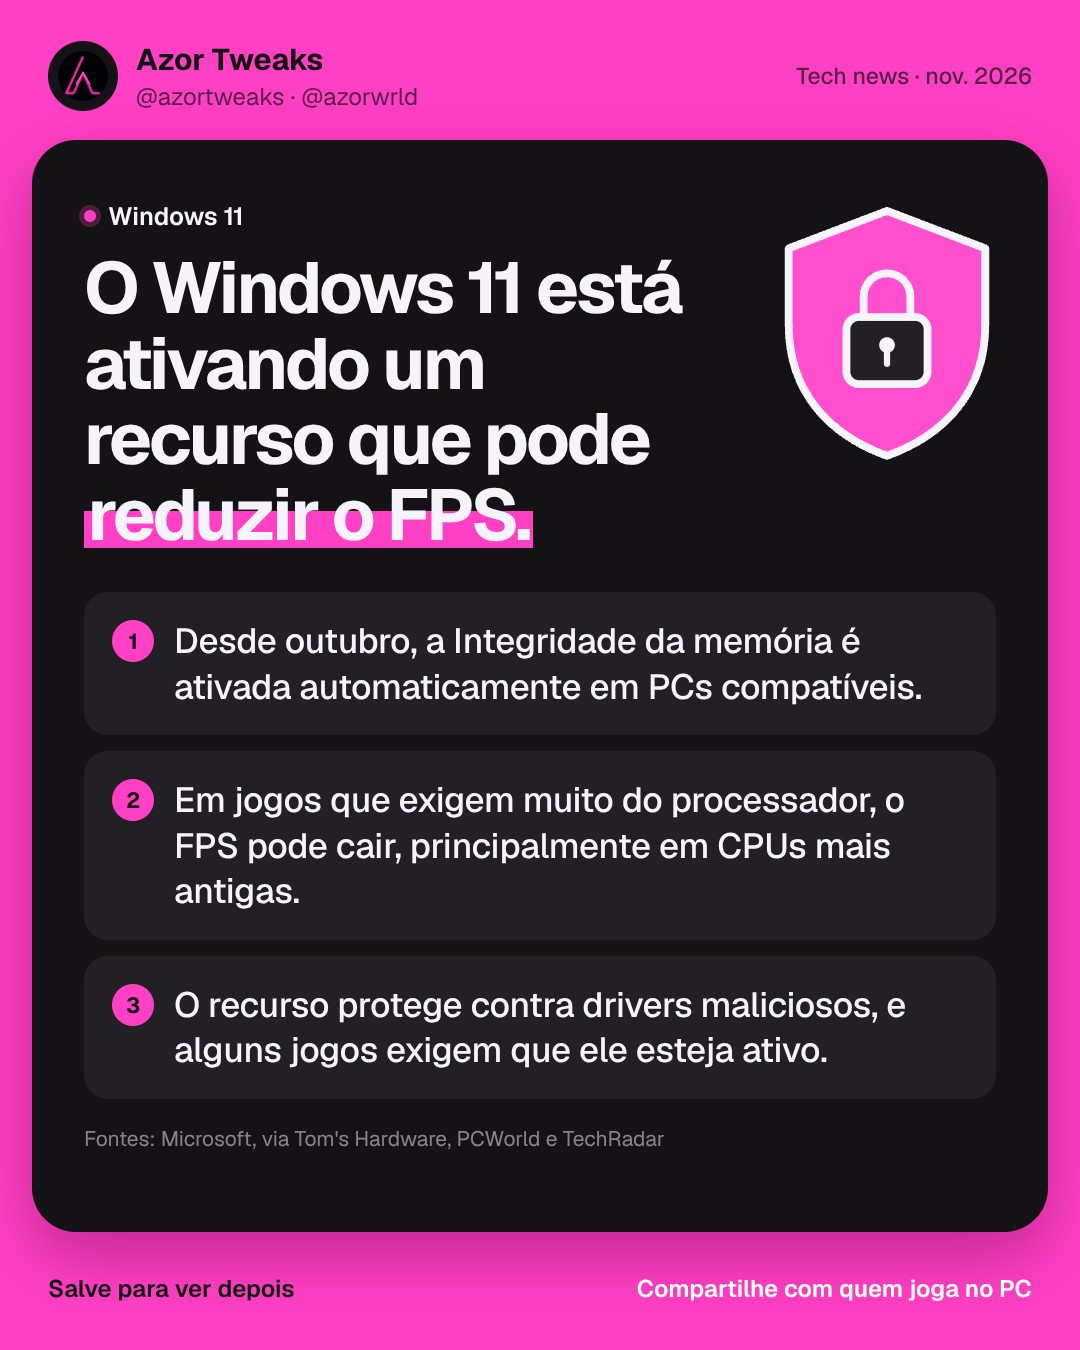
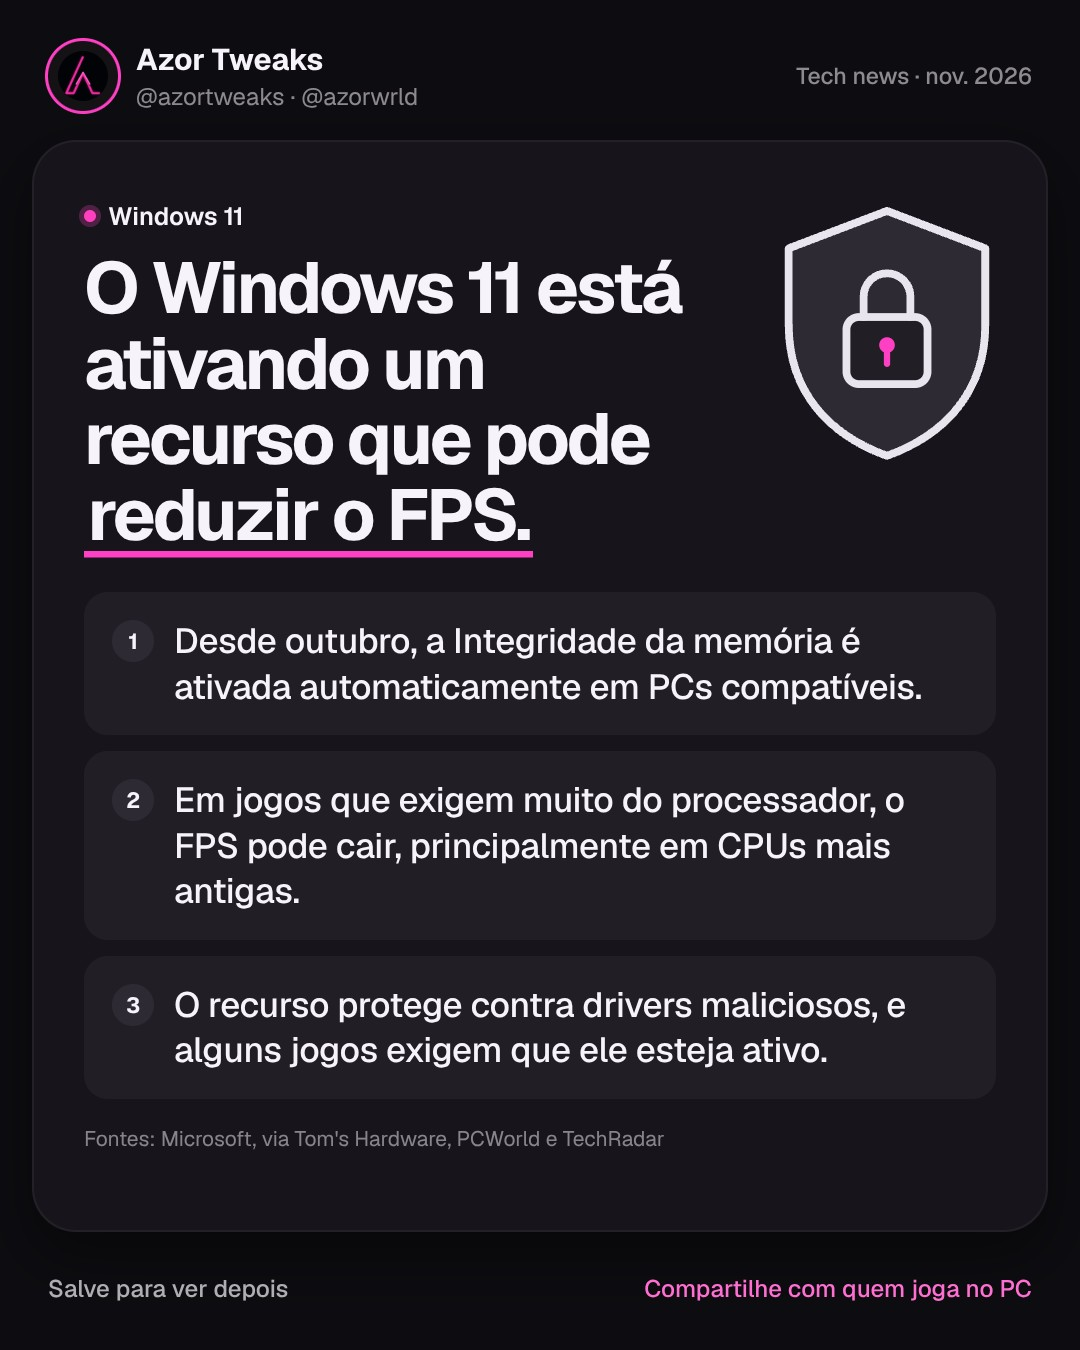
Tech news: paleta escura com detalhes rosa
Claude-Session: https://claude.ai/code/session_011VtFjTyii9rhYQFvrQ9bYg

diff --git a/propaganda/tech_news_2026-11/fonte/news_vid3.html b/propaganda/tech_news_2026-11/fonte/news_vid3.html
@@ -1,48 +1,55 @@
 <!doctype html><html lang="pt-BR"><head><meta charset="utf-8"><title>AZOR — Tech news (narrado)</title>
 <style>
-html,body{width:1080px;height:1920px;overflow:hidden;background:#ff3fc4}
-#p{position:relative;width:1080px;height:1920px;overflow:hidden;background:#ff3fc4;color:#f7f3fa;font-family:Geist,sans-serif;-webkit-font-smoothing:antialiased}
+html,body{width:1080px;height:1920px;overflow:hidden;background:#0d0c10}
+#p{position:relative;width:1080px;height:1920px;overflow:hidden;background:#0d0c10;color:#f7f3fa;font-family:Geist,sans-serif;-webkit-font-smoothing:antialiased}
 .x{position:absolute}
 #bars{left:56px;right:56px;top:56px;display:flex;gap:10px}
-#bars i{flex:1;height:7px;border-radius:4px;background:rgba(20,18,21,.2);overflow:hidden;position:relative}
-#bars i b{position:absolute;left:0;top:0;bottom:0;width:0;background:#141215;border-radius:4px}
+#bars i{flex:1;height:7px;border-radius:4px;background:rgba(255,255,255,.14);overflow:hidden;position:relative}
+#bars i b{position:absolute;left:0;top:0;bottom:0;width:0;background:#f7f3fa;border-radius:4px}
 #hd{left:56px;right:56px;top:96px;display:flex;align-items:center;gap:20px}
-#hd img{width:84px;height:84px;border-radius:50%;background:#141215;padding:12px}#hd b{color:#141215}
+#hd img{width:84px;height:84px;border-radius:50%;background:#141215;padding:12px}#hd b{color:#f7f3fa}#hd img{box-shadow:0 0 0 3px #ff3fc4}
 #hd b{display:block;font:700 34px Geist;letter-spacing:-.01em}
-#hd span{display:block;font:400 27px Geist;color:rgba(20,18,21,.7);margin-top:2px}
-#hd .dt{margin-left:auto;font:500 26px Geist;color:rgba(20,18,21,.7)}
-#card{left:40px;right:40px;top:224px;height:1500px;border-radius:52px;background:#141215;box-shadow:0 30px 80px rgba(80,0,50,.35)}
+#hd span{display:block;font:400 27px Geist;color:rgba(247,243,250,.55);margin-top:2px}
+#hd .dt{margin-left:auto;font:500 26px Geist;color:rgba(247,243,250,.55)}
+#card{left:40px;right:40px;top:224px;height:1500px;border-radius:52px;background:#17151b;box-shadow:inset 0 0 0 2px rgba(255,255,255,.05),0 30px 80px rgba(0,0,0,.45)}
 #tg{left:96px;top:290px;display:flex;align-items:center;gap:14px;font:600 28px Geist;color:#f7f3fa}
 #tg i{width:14px;height:14px;border-radius:50%;background:#ff3fbf;box-shadow:0 0 0 6px rgba(255,63,196,.25)}
 .hl{left:96px;right:96px;top:360px;font:700 88px/1.05 Geist;letter-spacing:-.04em}
-mark{background:linear-gradient(#ff3fc4,#ff3fc4) no-repeat 0 78%;background-size:0% 40%;color:inherit;padding:0 .05em}
+mark{background:linear-gradient(#ff3fc4,#ff3fc4) no-repeat 0 96%;background-size:0% 7%;color:inherit;padding:0 .05em}
 #ic{left:540px;top:1180px}
 #ic>svg{position:absolute;transform:translate(-50%,-50%)}
 #ol{left:96px;right:96px;display:flex;flex-direction:column;gap:22px}
-#ol div,#st div{position:relative;display:flex;gap:26px;align-items:flex-start;padding:30px 32px 32px;border-radius:30px;background:#221f25;font:500 44px/1.28 Geist;letter-spacing:-.015em}
+#ol div,#st div{position:relative;display:flex;gap:26px;align-items:flex-start;padding:30px 32px 32px;border-radius:30px;background:#211e25;font:500 44px/1.28 Geist;letter-spacing:-.015em}
 #ol div:before,#st div:before{content:'';position:absolute;left:0;top:26px;bottom:26px;width:6px;border-radius:3px;background:#ff3fc4;opacity:var(--on,0)}
-#ol i,#st i{flex:none;font:700 28px Geist;font-style:normal;width:56px;height:56px;border-radius:50%;background:#ff3fc4;color:#141215;display:flex;align-items:center;justify-content:center;margin-top:3px}
+#ol i,#st i{flex:none;font:700 28px Geist;font-style:normal;width:56px;height:56px;border-radius:50%;background:#2e2a33;color:#f7f3fa;display:flex;align-items:center;justify-content:center;margin-top:3px}
 #st{left:96px;right:96px;top:560px;display:flex;flex-direction:column;gap:22px}
 #st div{align-items:center;font-weight:600}
 #st .sw{margin-left:auto;width:120px;height:66px;border-radius:36px;position:relative;flex:none;background:#ff3fbf}
 #st .sw b{position:absolute;left:6px;top:6px;width:54px;height:54px;border-radius:50%;background:#fff;box-shadow:0 2px 6px rgba(0,0,0,.25)}
-#wn{left:96px;right:96px;top:1260px;font:500 34px/1.38 Geist;padding:28px 32px;border-radius:26px;background:#2c1a27;color:#ffc6ee}
-#src{left:56px;right:56px;top:1752px;font:500 26px/1.35 Geist;color:rgba(20,18,21,.72)}
-#cta{left:56px;right:56px;top:1830px;display:flex;justify-content:space-between;font:600 26px Geist;color:#141215}
-#cta span:last-child{color:#fff}
-#end{left:40px;right:40px;top:224px;height:1500px;border-radius:52px;background:#141215;display:flex;flex-direction:column;align-items:center;justify-content:center;text-align:center}
+#wn{left:96px;right:96px;top:1260px;font:500 34px/1.38 Geist;padding:28px 32px;border-radius:26px;background:#211e25;color:rgba(247,243,250,.75);box-shadow:inset 3px 0 0 #ff3fc4}
+#src{left:56px;right:56px;top:1752px;font:400 26px/1.35 Geist;color:rgba(247,243,250,.42)}
+#cta{left:56px;right:56px;top:1830px;display:flex;justify-content:space-between;font:500 26px Geist;color:rgba(247,243,250,.7)}
+#cta span:last-child{color:#ff6fd2}
+#end{left:40px;right:40px;top:224px;height:1500px;border-radius:52px;background:#17151b;display:flex;flex-direction:column;align-items:center;justify-content:center;text-align:center}
 #end img{width:210px;height:210px;border-radius:50%;background:#141215;padding:28px;box-shadow:0 0 0 8px #ff3fc4}
 #end h3{font:700 86px/1.05 Geist;letter-spacing:-.04em;margin-top:60px}
 #end p{font:500 38px/1.35 Geist;color:rgba(247,243,250,.65);margin-top:26px}
 #end .bt{margin-top:60px;display:flex;gap:18px}
-#end .bt span{font:700 38px Geist;padding:24px 44px;border-radius:999px;background:#ff3fc4;color:#141215}
-#end .bt span+span{background:transparent;color:#fff;box-shadow:inset 0 0 0 3px #ff3fc4}
+#end .bt span{font:700 38px Geist;padding:24px 44px;border-radius:999px;background:#f7f3fa;color:#141215}
+#end .bt span+span{background:transparent;color:#fff;box-shadow:inset 0 0 0 3px rgba(247,243,250,.3)}
 </style></head><body><div id="p"></div>
 <script type="module">
 import {sfx, ease, prog, lerp, clamp} from '/kit.js';
 import {STORIES} from '/news_data.js';
 import {ICON as ICON0, AVATAR} from '/nat.js';
-const ICON = Object.fromEntries(Object.entries(ICON0).map(([k, f]) => [k, () => f().replaceAll('#151316', '#f7f3fa').replaceAll('fill="#fff"', 'fill="#221f25"').replaceAll('#d9d4cd', '#4a464f')]));
+const DARK = svg => svg.replaceAll('#151316', '#e9e5ee').replaceAll('fill="#fff"', 'fill="#211e25"').replaceAll('#d9d4cd', '#3a3640').replaceAll('fill="#ff4fcf"', 'fill="#2e2a33"');
+const ACCENT = {  // um único detalhe rosa por ícone
+  shield: v => v.replace('<circle cx="150" cy="186" r="10" fill="#e9e5ee"/><rect x="146" y="190" width="8" height="24" rx="4" fill="#e9e5ee"/>', '<circle cx="150" cy="186" r="10" fill="#ff3fc4"/><rect x="146" y="190" width="8" height="24" rx="4" fill="#ff3fc4"/>'),
+  gpu: v => v.replaceAll('r="12" fill="#e9e5ee"', 'r="12" fill="#ff3fc4"'),
+  cal: v => v.replace('font-size="30" fill="#e9e5ee">NOV', 'font-size="30" fill="#ff3fc4">NOV'),
+  cpu: v => v.replace('font-size="30" fill="#e9e5ee">18A-P', 'font-size="30" fill="#ff3fc4">18A-P'),
+};
+const ICON = Object.fromEntries(Object.entries(ICON0).map(([k, f]) => [k, () => ACCENT[k](DARK(f()))]));
 const FONT = `@font-face{font-family:Geist;font-weight:400;src:url(/node_modules/@fontsource/geist/files/geist-latin-400-normal.woff2)}
 @font-face{font-family:Geist;font-weight:500;src:url(/node_modules/@fontsource/geist/files/geist-latin-500-normal.woff2)}
 @font-face{font-family:Geist;font-weight:600;src:url(/node_modules/@fontsource/geist/files/geist-latin-600-normal.woff2)}
@@ -71,7 +78,7 @@ function build() {
 }
 const show = (e, k, dy = 30) => { e.style.opacity = k; e.style.transform = `translateY(${(1 - k) * dy}px)`; e.style.visibility = k > .001 ? 'visible' : 'hidden'; };
 const inout = (t, a, b, d = .45) => ease.out(prog(t, a - .15, a - .15 + d)) * (1 - ease.in(prog(t, b - .35, b)));
-const marks = (root, t, t0) => root.querySelectorAll('mark').forEach(m => m.style.backgroundSize = `${ease.io(prog(t, t0, t0 + .7)) * 100}% 40%`);
+const marks = (root, t, t0) => root.querySelectorAll('mark').forEach(m => m.style.backgroundSize = `${ease.io(prog(t, t0, t0 + .7)) * 100}% 7%`);
 let olTop = 0;
 
 window.renderFrame = t => {
@@ -97,7 +104,7 @@ window.renderFrame = t => {
   ic.firstElementChild.style.transform = `translate(-50%,-50%) scale(${sc}) translateY(${Math.sin(t * 1.6) * 7}px)`;
   if (s.art === 'gpu') ic.querySelectorAll('.fan').forEach(f => f.querySelector('.bl').setAttribute('transform', `rotate(${t * 240} ${f.dataset.x} 110)`));
   if (s.art === 'cal') ic.querySelector('.day').textContent = Math.max(1, Math.round(lerp(1, 19, ease.out(prog(t, S.head.start + .6, S.head.start + 2)))));
-  if (s.art === 'cpu') ic.querySelector('.die').setAttribute('fill', `hsl(318,100%,${lerp(66, 80, (Math.sin(t * 2.6) + 1) / 2)}%)`);
+  if (s.art === 'cpu') ic.querySelector('.die').setAttribute('fill', `hsl(270,8%,${lerp(17, 24, (Math.sin(t * 2.6) + 1) / 2)}%)`);
   // fatos: aparecem quando a voz começa cada um; o que está sendo lido fica em destaque
   const lv = t > S.f0.start - .3 && t < fEnd; ol.style.visibility = lv ? 'visible' : 'hidden';
   [...ol.children].forEach((d, i) => { const g = S['f' + i]; show(d, inout(t, g.start, fEnd), 40);

diff --git a/propaganda/tech_news_2026-11/fonte/news_post3.html b/propaganda/tech_news_2026-11/fonte/news_post3.html
@@ -5,38 +5,45 @@
 @font-face{font-family:Geist;font-weight:600;src:url(/node_modules/@fontsource/geist/files/geist-latin-600-normal.woff2)}
 @font-face{font-family:Geist;font-weight:700;src:url(/node_modules/@fontsource/geist/files/geist-latin-700-normal.woff2)}
 *{box-sizing:border-box;margin:0;padding:0}
-html,body{width:1080px;height:1350px;overflow:hidden;background:#ff3fc4}
-#p{position:relative;width:1080px;height:1350px;overflow:hidden;background:#ff3fc4;color:#f7f3fa;font-family:Geist,sans-serif;-webkit-font-smoothing:antialiased}
+html,body{width:1080px;height:1350px;overflow:hidden;background:#0d0c10}
+#p{position:relative;width:1080px;height:1350px;overflow:hidden;background:#0d0c10;color:#f7f3fa;font-family:Geist,sans-serif;-webkit-font-smoothing:antialiased}
 .x{position:absolute}
 #hd{left:48px;right:48px;top:40px;display:flex;align-items:center;gap:18px}
-#hd img{width:70px;height:70px;border-radius:50%;background:#141215;padding:10px}#hd b{color:#141215}
-#hd b{display:block;font:700 30px Geist}#hd span{display:block;font:400 24px Geist;color:rgba(20,18,21,.7);margin-top:2px}
-#hd .dt{margin-left:auto;font:500 23px Geist;color:rgba(20,18,21,.7)}
-#card{left:32px;right:32px;top:140px;bottom:118px;border-radius:44px;background:#141215;box-shadow:0 24px 60px rgba(80,0,50,.35)}
+#hd img{width:70px;height:70px;border-radius:50%;background:#141215;padding:10px}#hd b{color:#f7f3fa}#hd img{box-shadow:0 0 0 3px #ff3fc4}
+#hd b{display:block;font:700 30px Geist}#hd span{display:block;font:400 24px Geist;color:rgba(247,243,250,.55);margin-top:2px}
+#hd .dt{margin-left:auto;font:500 23px Geist;color:rgba(247,243,250,.55)}
+#card{left:32px;right:32px;top:140px;bottom:118px;border-radius:44px;background:#17151b;box-shadow:inset 0 0 0 2px rgba(255,255,255,.05),0 24px 60px rgba(0,0,0,.45)}
 #tg{left:84px;top:200px;display:flex;align-items:center;gap:12px;font:600 25px Geist}
 #tg i{width:12px;height:12px;border-radius:50%;background:#ff3fbf;box-shadow:0 0 0 5px rgba(255,63,196,.25)}
 h1{position:absolute;left:84px;font-weight:700;letter-spacing:-.04em;line-height:1.05}
-mark{background:linear-gradient(#ff3fc4,#ff3fc4) no-repeat 0 78%;background-size:100% 40%;color:inherit;padding:0 .05em}
+mark{background:linear-gradient(#ff3fc4,#ff3fc4) no-repeat 0 96%;background-size:100% 7%;color:inherit;padding:0 .05em}
 .ic{position:absolute}
 .ol{position:absolute;left:84px;right:84px;display:flex;flex-direction:column;gap:16px}
-.ol div{display:flex;gap:20px;align-items:flex-start;padding:26px 28px;border-radius:24px;background:#221f25;font:500 35px/1.3 Geist;letter-spacing:-.01em}
-.ol i{flex:none;font:700 22px Geist;font-style:normal;width:42px;height:42px;border-radius:50%;background:#ff3fc4;color:#141215;display:flex;align-items:center;justify-content:center;margin-top:2px}
+.ol div{display:flex;gap:20px;align-items:flex-start;padding:26px 28px;border-radius:24px;background:#211e25;font:500 35px/1.3 Geist;letter-spacing:-.01em}
+.ol i{flex:none;font:700 22px Geist;font-style:normal;width:42px;height:42px;border-radius:50%;background:#2e2a33;color:#f7f3fa;display:flex;align-items:center;justify-content:center;margin-top:2px}
 .ol.big div{font-size:38px;padding:26px 28px;align-items:center}
 .ol.big i{width:50px;height:50px;font-size:24px}
 .sw{margin-left:auto;width:96px;height:54px;border-radius:30px;background:#4a464f;position:relative;flex:none}.sw:after{content:'';position:absolute;left:5px;top:5px;width:44px;height:44px;border-radius:50%;background:#fff;box-shadow:0 2px 5px rgba(0,0,0,.25)}
-.wn{position:absolute;left:84px;right:84px;font:500 27px/1.38 Geist;padding:22px 26px;border-radius:22px;background:#2c1a27;color:#ffc6ee}
+.wn{position:absolute;left:84px;right:84px;font:500 27px/1.38 Geist;padding:22px 26px;border-radius:22px;background:#211e25;color:rgba(247,243,250,.75);box-shadow:inset 3px 0 0 #ff3fc4}
 .cv{position:absolute;left:84px;right:84px;top:480px;display:flex;flex-direction:column;gap:18px}
-.cv div{display:flex;flex-direction:column;gap:12px;padding:30px 30px;border-radius:26px;background:#221f25}
-.cv small{display:flex;align-items:center;gap:10px;font:600 22px Geist;color:rgba(247,243,250,.6)}.cv small:before{content:'';width:10px;height:10px;border-radius:50%;background:#ff3fbf}
+.cv div{display:flex;flex-direction:column;gap:12px;padding:30px 30px;border-radius:26px;background:#211e25}
+.cv small{display:flex;align-items:center;gap:10px;font:600 22px Geist;color:rgba(247,243,250,.55)}.cv small:before{content:'';width:10px;height:10px;border-radius:50%;background:#ff3fbf}
 .cv span{font:700 42px/1.12 Geist;letter-spacing:-.03em}
 #src{left:84px;right:84px;font:400 21px/1.35 Geist;color:rgba(247,243,250,.5)}
-#ft{left:48px;right:48px;bottom:46px;display:flex;justify-content:space-between;font:600 24px Geist;color:#141215}
-#ft span:last-child{color:#fff}
+#ft{left:48px;right:48px;bottom:46px;display:flex;justify-content:space-between;font:500 24px Geist;color:rgba(247,243,250,.7)}
+#ft span:last-child{color:#ff6fd2}
 </style></head><body><div id="p"></div>
 <script type="module">
 import {STORIES} from '/news_data.js';
 import {ICON as ICON0, AVATAR} from '/nat.js';
-const ICON = Object.fromEntries(Object.entries(ICON0).map(([k, f]) => [k, () => f().replaceAll('#151316', '#f7f3fa').replaceAll('fill="#fff"', 'fill="#221f25"').replaceAll('#d9d4cd', '#4a464f')]));
+const DARK = svg => svg.replaceAll('#151316', '#e9e5ee').replaceAll('fill="#fff"', 'fill="#211e25"').replaceAll('#d9d4cd', '#3a3640').replaceAll('fill="#ff4fcf"', 'fill="#2e2a33"');
+const ACCENT = {  // um único detalhe rosa por ícone
+  shield: v => v.replace('<circle cx="150" cy="186" r="10" fill="#e9e5ee"/><rect x="146" y="190" width="8" height="24" rx="4" fill="#e9e5ee"/>', '<circle cx="150" cy="186" r="10" fill="#ff3fc4"/><rect x="146" y="190" width="8" height="24" rx="4" fill="#ff3fc4"/>'),
+  gpu: v => v.replaceAll('r="12" fill="#e9e5ee"', 'r="12" fill="#ff3fc4"'),
+  cal: v => v.replace('font-size="30" fill="#e9e5ee">NOV', 'font-size="30" fill="#ff3fc4">NOV'),
+  cpu: v => v.replace('font-size="30" fill="#e9e5ee">18A-P', 'font-size="30" fill="#ff3fc4">18A-P'),
+};
+const ICON = Object.fromEntries(Object.entries(ICON0).map(([k, f]) => [k, () => ACCENT[k](DARK(f()))]));
 const q = new URLSearchParams(location.search), s = STORIES[+q.get('s') || 0], v = q.get('v') || 'main';
 const mk = h => h.replace(/<em>/g, '<mark>').replace(/<\/em>/g, '</mark>');
 const p = document.getElementById('p');
